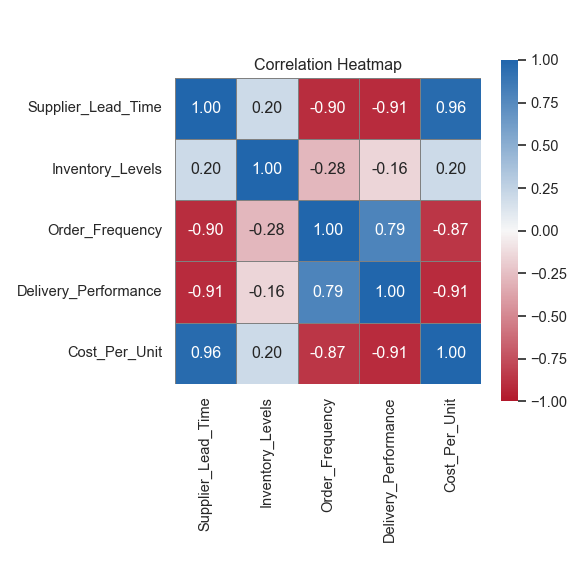
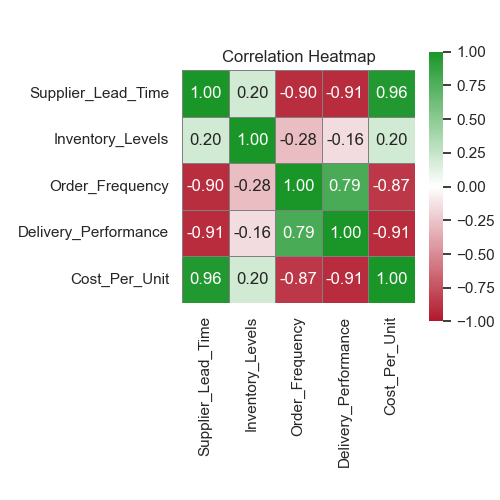
fixed heatmap size

Changed region(s): [[0.03, 0.09, 0.99, 0.96], [0.93, 0.69, 0.99, 0.72]]

diff --git a/Week 8/Q3/generate_correlation.py b/Week 8/Q3/generate_correlation.py
@@ -5,8 +5,15 @@ import numpy as np
 import matplotlib
 matplotlib.use('Agg')
 import matplotlib.pyplot as plt
-import seaborn as sns
 from matplotlib.colors import LinearSegmentedColormap
+
+# Try to import seaborn, but fall back to matplotlib if unavailable
+try:
+    import seaborn as sns
+    _HAS_SEABORN = True
+except Exception:
+    sns = None
+    _HAS_SEABORN = False
 
 here = os.path.dirname(os.path.abspath(__file__))
 excel_path = os.path.join(here, 'q-excel-correlation-heatmap.xlsx')
@@ -81,17 +88,39 @@ csv_path = os.path.join(here, 'correlation.csv')
 corr.to_csv(csv_path, index=True)
 print('Saved correlation CSV to', csv_path)
 
-# Create heatmap PNG
+# Create heatmap PNG (ensure output is smaller than 512x512 pixels)
 png_path = os.path.join(here, 'heatmap.png')
 # Create red-white-green colormap
-cmap = LinearSegmentedColormap.from_list('red_white_green', ['#b2182b','#f7f7f7','#2166ac'])
-plt.figure(figsize=(6,6))
-sns.set(style='white')
-ax = sns.heatmap(corr, annot=True, fmt='.2f', cmap=cmap, vmin=-1, vmax=1, square=True, cbar_kws={'shrink':0.8}, linewidths=0.5, linecolor='gray')
+cmap = LinearSegmentedColormap.from_list('red_white_green', ['#b2182b', '#ffffff', '#1a9629'])
+
+# Target pixel size (max 512). We'll use 500x500 to be safely under 512.
+pixel_size = 500
+dpi = 100
+figsize_inches = (pixel_size / dpi, pixel_size / dpi)
+
+plt.figure(figsize=figsize_inches)
+if _HAS_SEABORN:
+    sns.set(style='white')
+    ax = sns.heatmap(corr, annot=True, fmt='.2f', cmap=cmap, vmin=-1, vmax=1, square=True,
+                     cbar_kws={'shrink': 0.8}, linewidths=0.5, linecolor='gray')
+else:
+    # Fallback: use matplotlib imshow and annotate values
+    ax = plt.gca()
+    im = ax.imshow(corr.values, cmap=cmap, vmin=-1, vmax=1)
+    # Annotations
+    for (i, j), val in np.ndenumerate(corr.values):
+        ax.text(j, i, f"{val:.2f}", ha='center', va='center', color='black', fontsize=8)
+    # Tick labels
+    ax.set_xticks(range(len(corr.columns)))
+    ax.set_yticks(range(len(corr.index)))
+    ax.set_xticklabels(corr.columns, rotation=45, ha='right')
+    ax.set_yticklabels(corr.index)
+    plt.colorbar(im, fraction=0.046, pad=0.04)
+
 plt.title('Correlation Heatmap')
 plt.tight_layout()
-plt.savefig(png_path, dpi=96)  # 6in * 96 dpi = 576 px -> will be around 576x576
+plt.savefig(png_path, dpi=dpi)
 plt.close()
-print('Saved heatmap PNG to', png_path)
+print('Saved heatmap PNG to', png_path, '(size <= {}x{} pixels)'.format(pixel_size, pixel_size))
 
 print('Done')
